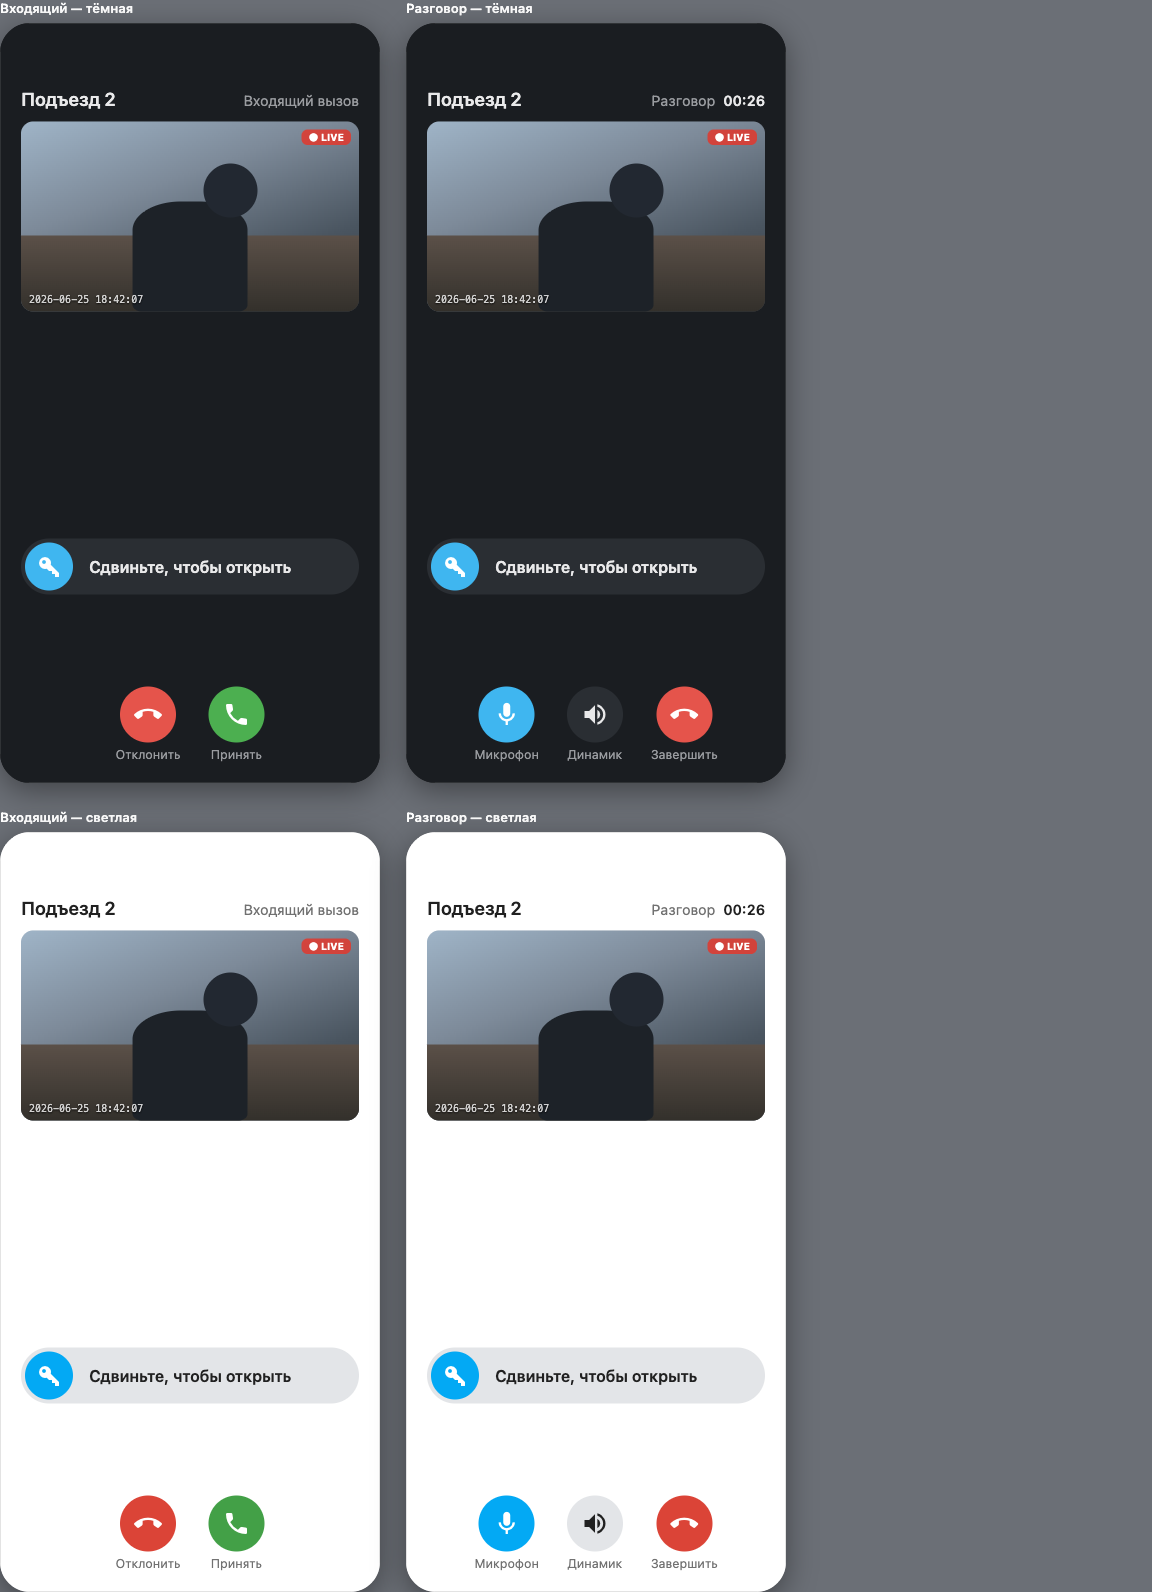
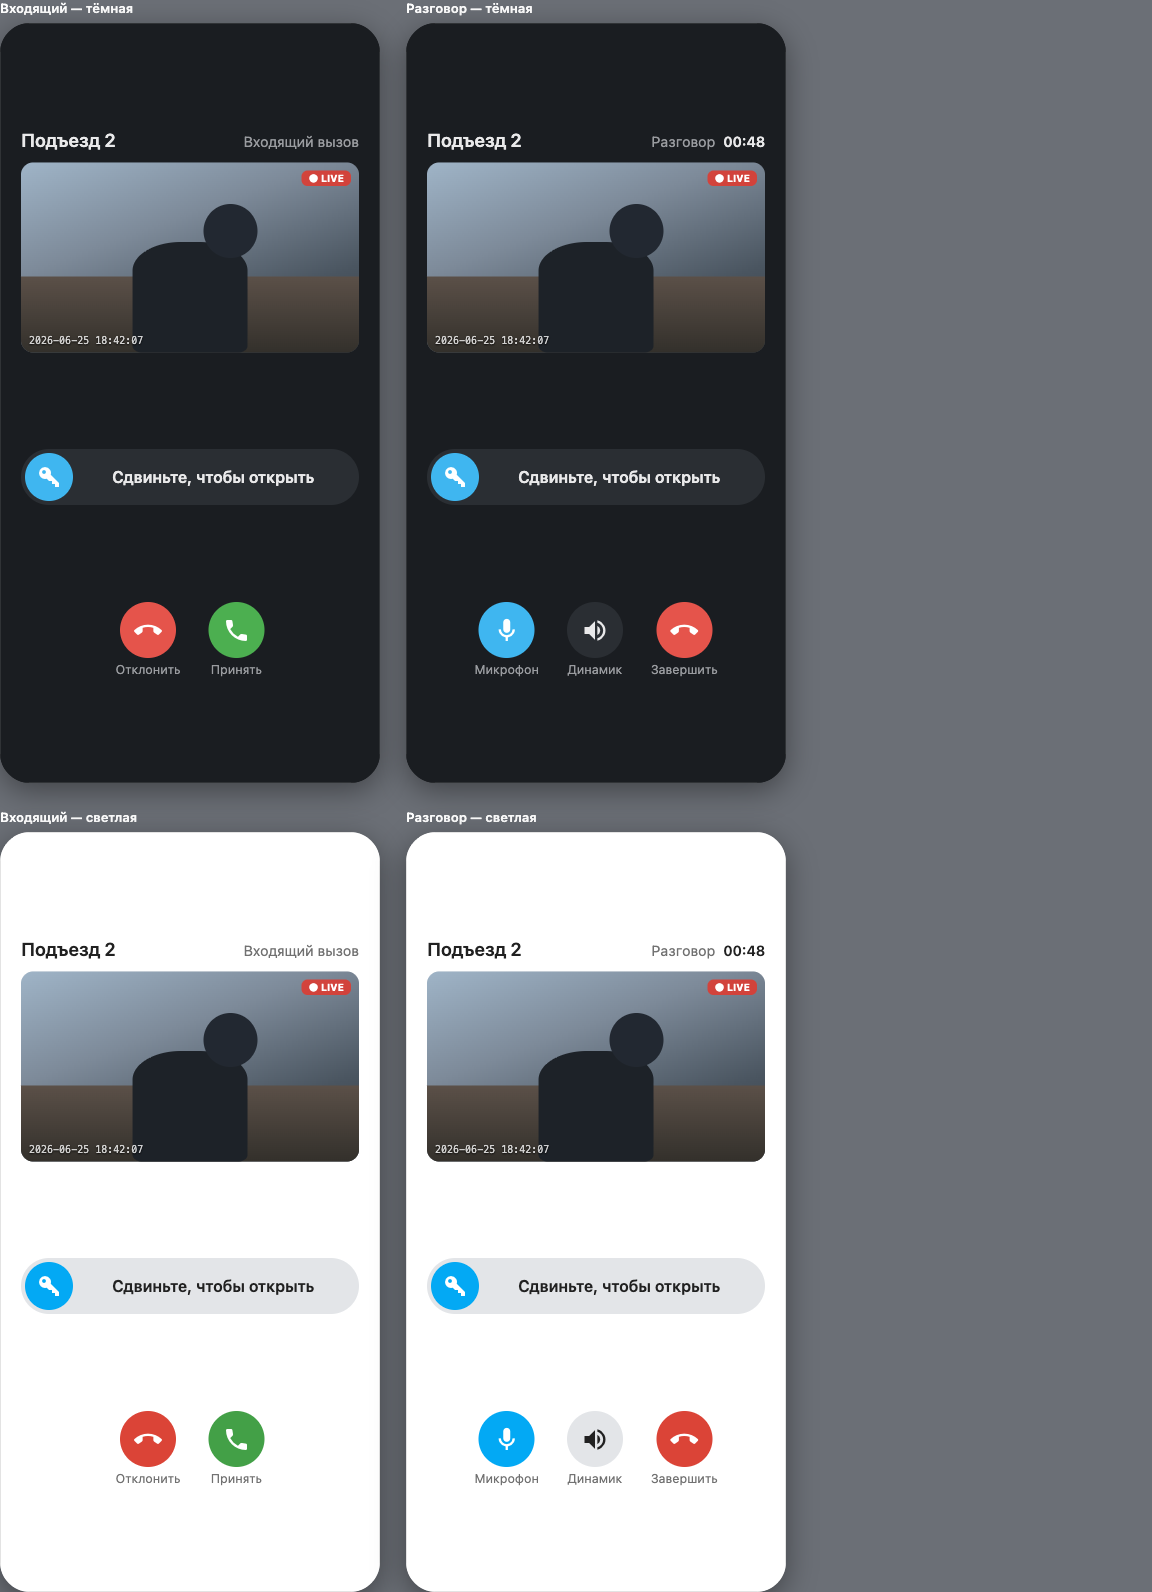
fix(card): подпись слайдера центрируется в свободной зоне (не под кружком)
«Сдвиньте, чтобы открыть» заезжала под кружок-ключ (центрировалась по всей дорожке).
Зарезервировано место слева под кружок (.track padding-left) → текст центрируется
в свободной зоне справа от кружка. Обновлён макет телефона.

diff --git a/custom_components/elektronny_gorod/www/eg-intercom-call-card.js b/custom_components/elektronny_gorod/www/eg-intercom-call-card.js
@@ -112,6 +112,12 @@ var Re=Object.defineProperty;var Ue=Object.getOwnPropertyDescriptor;var p=(r,e,t
       font: inherit;
       font-weight: 600;
     }
+    .track {
+      box-sizing: border-box;
+      /* резерв под кружок-ключ слева → подпись центрируется в свободной зоне, не под кружком */
+      padding-left: 60px;
+      padding-right: 14px;
+    }
     .bar[disabled] {
       opacity: 0.5;
       cursor: not-allowed;

diff --git a/frontend/src/components/open-control.ts b/frontend/src/components/open-control.ts
@@ -231,6 +231,12 @@ export class EgOpenControl extends LitElement {
       font: inherit;
       font-weight: 600;
     }
+    .track {
+      box-sizing: border-box;
+      /* резерв под кружок-ключ слева → подпись центрируется в свободной зоне, не под кружком */
+      padding-left: 60px;
+      padding-right: 14px;
+    }
     .bar[disabled] {
       opacity: 0.5;
       cursor: not-allowed;